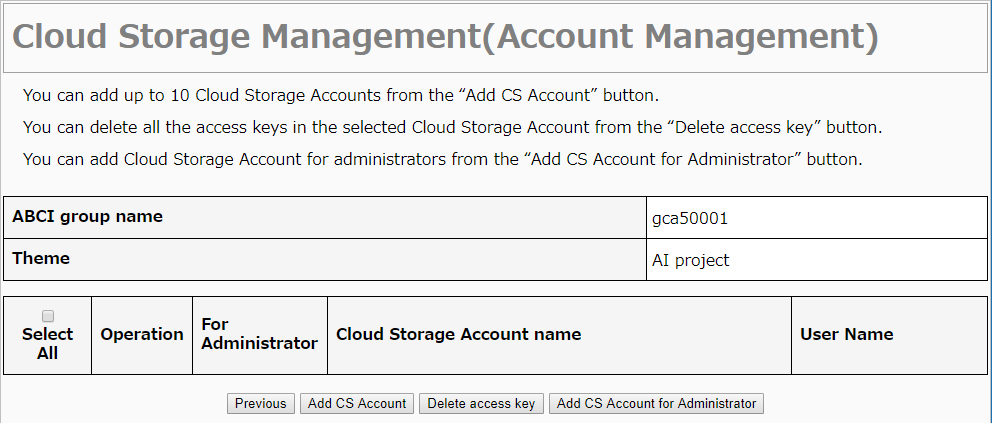
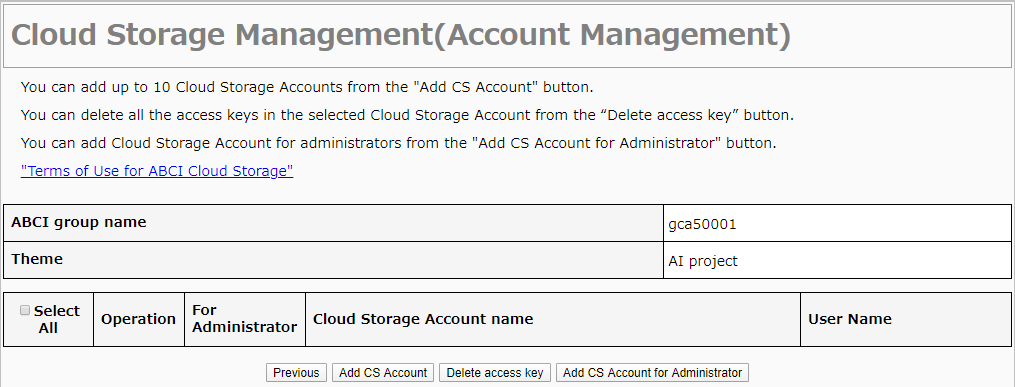
Update pictures for cloud storage account management (#1717-9)

diff --git a/portal/ja/docs/03.md b/portal/ja/docs/03.md
@@ -215,7 +215,7 @@ ABCIグループに追加する利用者について各項目を入力して[完
 
 ![[[Screenshot]]](img/3_06_B.png)
 
-確認事項を読み、同意する場合は[全てを同意して次へ進む]をクリックします。
+確認事項を読み、同意する場合は[全てに同意して次へ進む]をクリックします。
 
 ![[[Screenshot]]](img/3_06_C.png)
 
@@ -230,7 +230,11 @@ ABCIグループに追加する利用者について各項目を入力して[完
 
 #### 3.6.2.1 クラウドストレージアカウント追加 {#add-cs-acct-admin}
 
-クラウドストレージアカウント管理画面上の[管理者用CSアカウント追加]をクリックすると確認ダイアログが表示されますので[OK]をクリックします。
+クラウドストレージアカウント管理画面上の[管理者用CSアカウント追加]をクリックします。
+
+![[[Screenshot]]](img/3_06_D_1.png)
+
+確認事項を読み、同意する場合は[全てに同意して次へ進む]をクリックします。
 
 ![[[Screenshot]]](img/3_06_E.png)
 

diff --git a/portal/en/docs/03.md b/portal/en/docs/03.md
@@ -227,7 +227,11 @@ Click "Manage CS Account for Administorator" button on the screen.
 
 #### 3.6.2.1 Add Cloud Storage account {#add-cs-acct-admin}
 
-Click "Add CS Account for Administorator" button on the screen, and click "OK" on the dialog box.
+Click "Add CS Account for Administrator" button on the screen.
+
+![[[Screenshot]]](img/3_31_1.png)
+
++Refer to the terms of use and click the "I agree with all and move on to the next" button if you agree.
 
 ![[[Screenshot]]](img/3_32.png)
 
